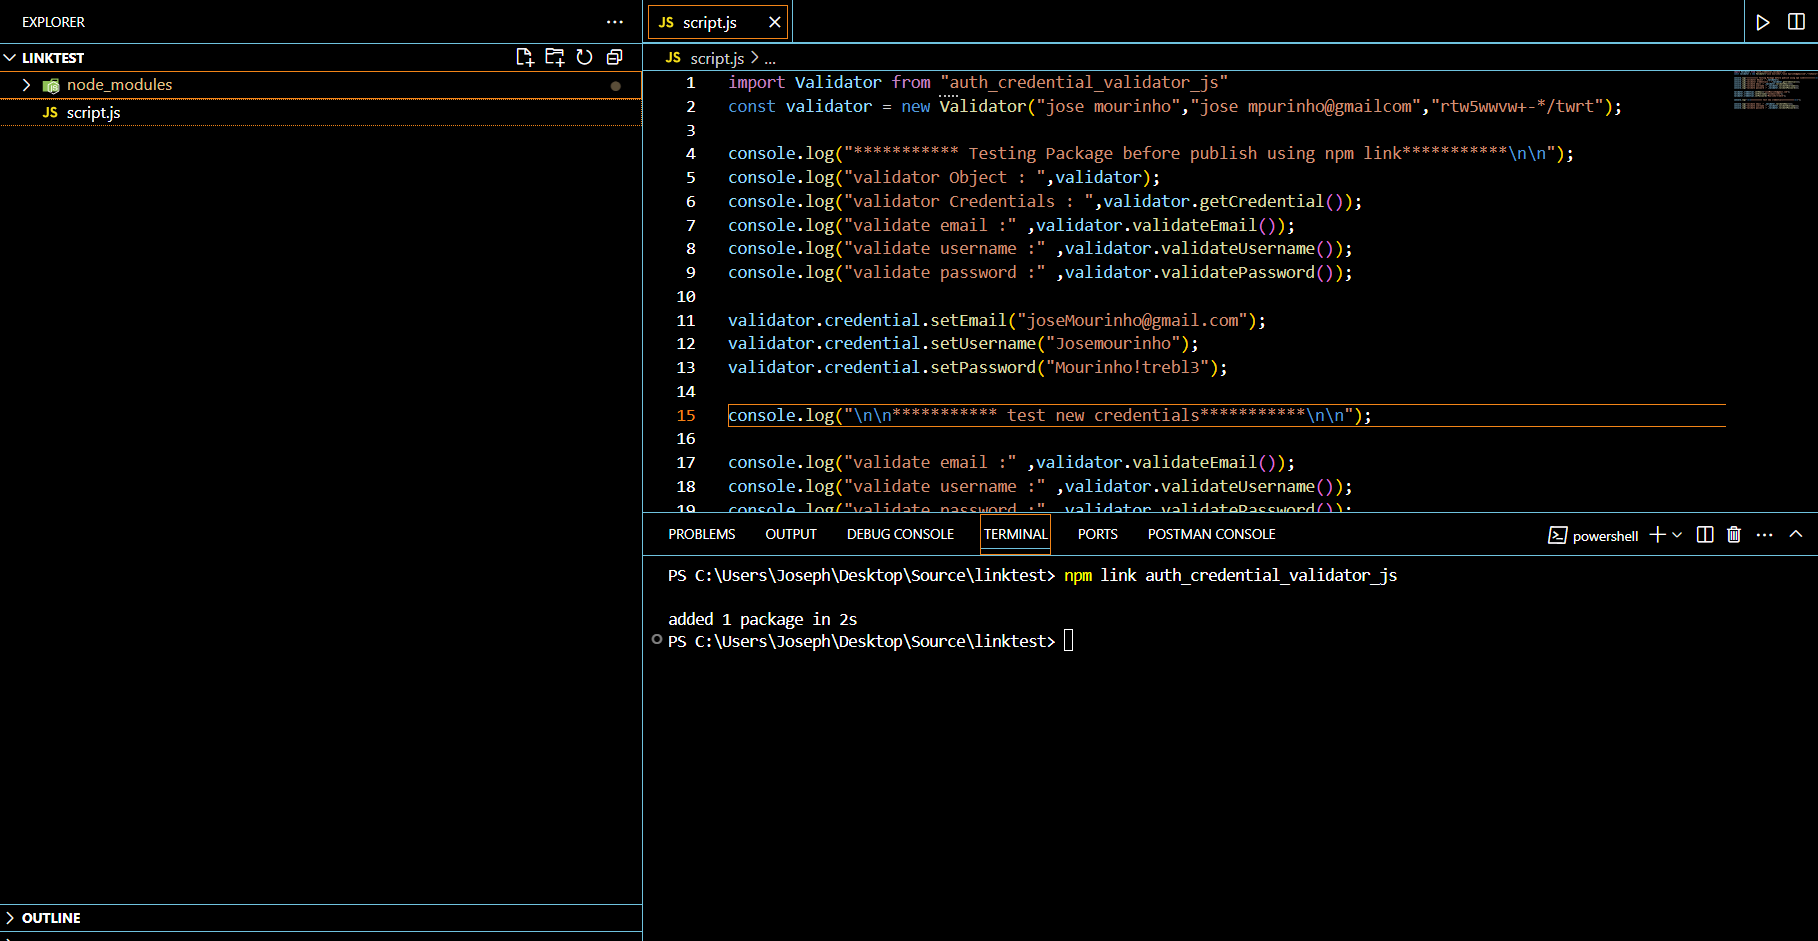
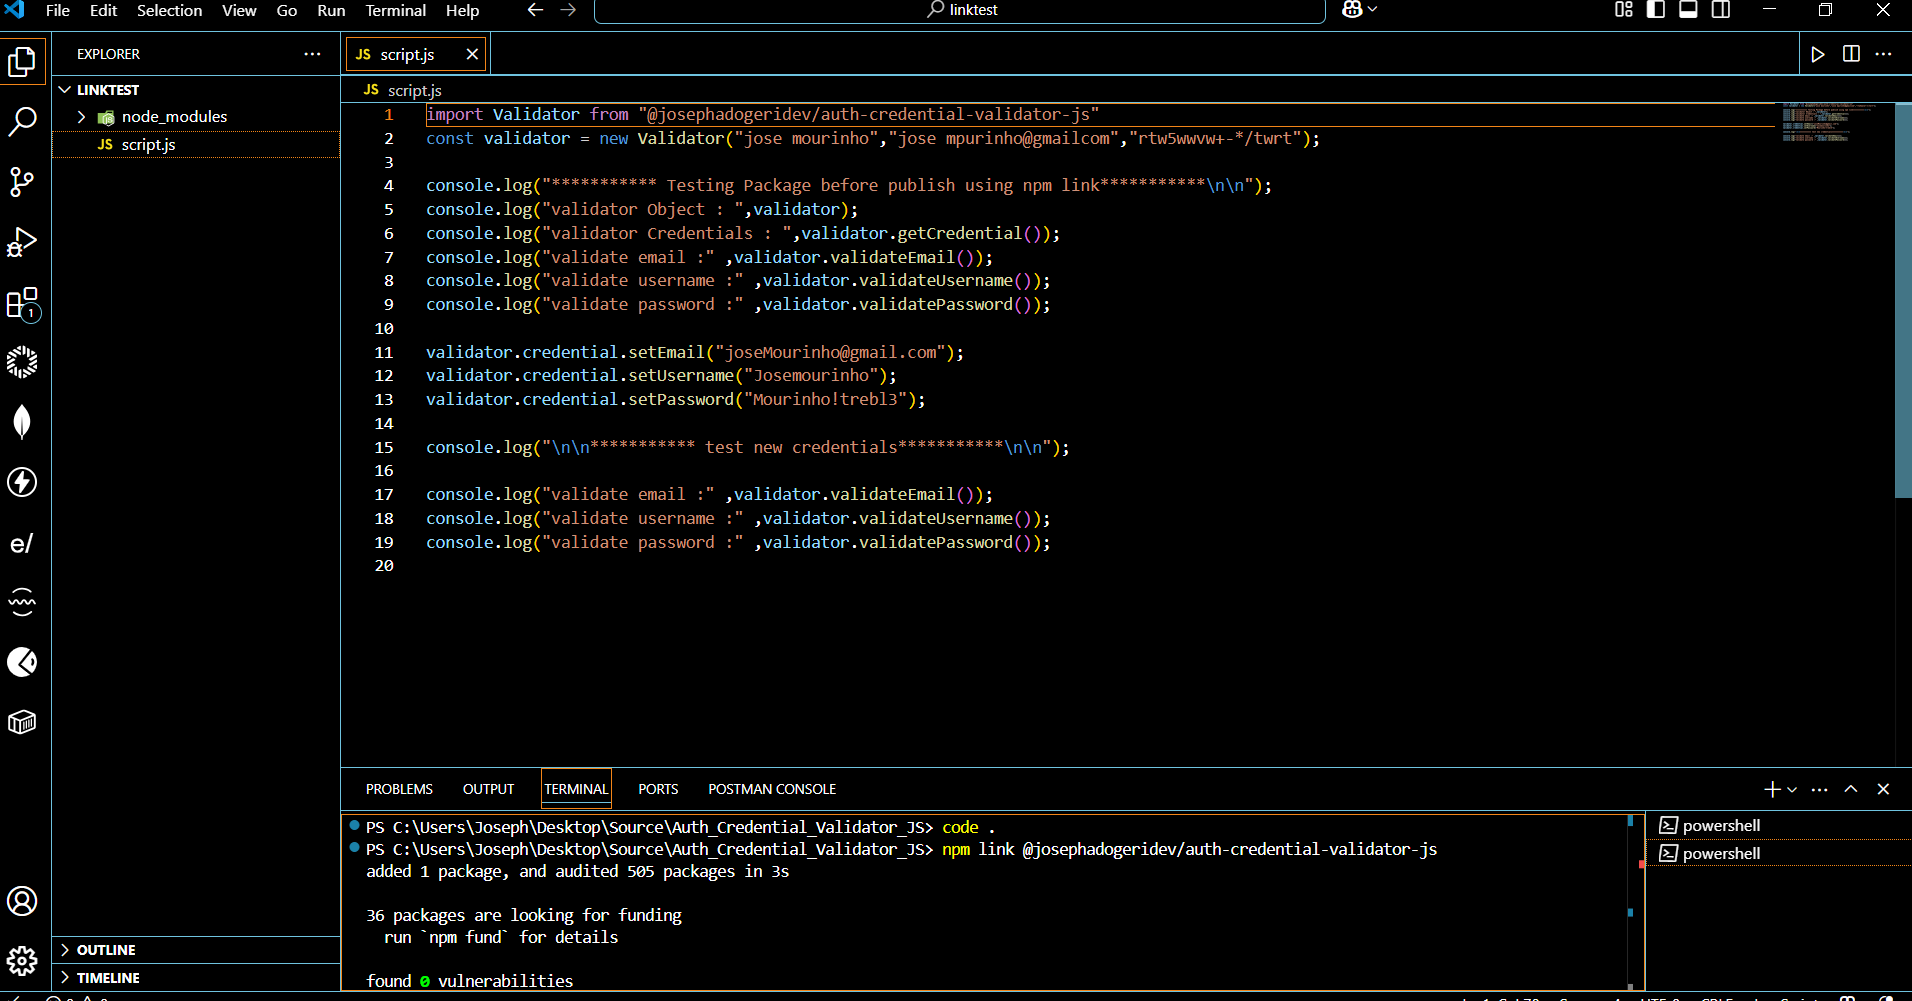
Updaed README.MD

diff --git a/script.js b/script.js
@@ -1,4 +1,4 @@
-import Validator from "auth_credential_validator_js"
+import Validator from "@josephadogeridev/auth-credential-validator-js"
 const validator = new Validator("jose mourinho","jose mpurinho@gmailcom","rtw5wwvw+-*/twrt");
 
 console.log("*********** Testing Package before publish using npm link***********\n\n");

diff --git a/README.MD b/README.MD
@@ -1,4 +1,4 @@
-## **Auth Credential Validator JS**
+# **Auth Credential Validator JS**
 
 **Version:** 1.0.0
 **Date:** June 2, 2025
@@ -125,7 +125,79 @@ This package will allow users to:
 ```bash
   npm install auth-credential-validator-js
 ```
-### 4.2 code snippet ###
+### 4.2 Classes and Methods ###
+
+This project includes the following core components:
+
+#### 4.2.1 `Credential` Class ####
+
+The `Credential` class represents a single credential with its attributes and methods.
+
+*   **Attributes:**
+    *   `username` (string): The username of the credential.
+    *   `email` (string): The email of the credential.
+    *   `password` (string): The password of the credential.
+*   **Methods:**
+    *   `constructor(username ,email ,password)`: The constructor method to initialize a new `Credential` object.
+        *   **Parameters:**
+            *   `username` (string): The username of the credential.
+            *   `email` (string): The email of the credential.
+            *   `password` (string): The password of the credential.
+        *   **Description:** Creates a new `Credential` instance with the provided username, email, and password.
+    *   `getUsername()`: Returns a string containing the credential's username.
+        *   **Description:** Retrieves the username as a readable string.
+    *   `getEmail()`: Returns a string containing the credential's email.
+        *   **Description:** Retrieves the email as a readable string.
+    *   `getPassword()`: Returns a string containing the credential's password.
+        *   **Description:** Retrieves the password as a readable string.
+    *   `setUsername(username)`: Returns a string containing the credential's username.
+        *   **Parameters:**
+            *   `username` (`string` ): The new username of a credential.
+        *   **Description:** updates the username of the credential object.
+    *   `setEmail(email)`: Returns a string containing the credential's email.
+        *   **Parameters:**
+            *   `email` (`string` ): The new email of a credential.
+        *   **Description:** updates the email of the credential object.
+    *   `setPassword(password)`: Returns a string containing the credential's password.
+        *   **Parameters:**
+            *   `password` (`string` ): The new password of a credential.
+        *   **Description:** updates the password of the credential object.
+
+#### 4.2.2 `Validator` Class ####
+
+The `Validator` class represents a single validator with its attributes and methods.
+
+*   **Attributes:**
+    *   `username` (string): The username of the credential.
+    *   `email` (string): The email of the credential.
+    *   `password` (string): The password of the credential.
+*   **Methods:**
+    *   `constructor(username ,email ,password)`: The constructor method to initialize a new `Credential` object.
+        *   **Parameters:**
+            *   `username` (string): The username of the credential.
+            *   `email` (string): The email of the credential.
+            *   `password` (string): The password of the credential.
+        *   **Description:** Creates a new `Credential` instance with the provided username, email, and password.
+    *   `getUsername()`: Returns a string containing the credential's username.
+        *   **Description:** Retrieves the username as a readable string.
+    *   `getEmail()`: Returns a string containing the credential's email.
+        *   **Description:** Retrieves the email as a readable string.
+    *   `getPassword()`: Returns a string containing the credential's password.
+        *   **Description:** Retrieves the password as a readable string.
+    *   `setUsername(username)`: Returns a string containing the credential's username.
+        *   **Parameters:**
+            *   `username` (`string` ): The new username of a credential.
+        *   **Description:** updates the username of the credential object.
+    *   `setEmail(email)`: Returns a string containing the credential's email.
+        *   **Parameters:**
+            *   `email` (`string` ): The new email of a credential.
+        *   **Description:** updates the email of the credential object.
+    *   `setPassword(password)`: Returns a string containing the credential's password.
+        *   **Parameters:**
+            *   `password` (`string` ): The new password of a credential.
+        *   **Description:** updates the password of the credential object.
+
+### 4.3 code snippet ###
 
 ```ruby
 
@@ -156,10 +228,10 @@ console.log("validate password :" ,validator.validatePassword());
 
 #### **5.1 Test from node_modules**
 
-1 navigate to auth-credential-validator-js directory using command below
+1 navigate to cd @josephadogeridev/auth-credential-validator-js directory using command below
 
 ```bash
-  cd node_modeles/auth-credential-validator-js  
+  cd node_modules/@josephadogeridev/auth-credential-validator-js  
 ```
 
 2 type npm run test to run unit tests
@@ -210,4 +282,54 @@ Note : this test was done pre publish to npm manager
 * AweSome Open Source : [Awesome Readme Templates](https://awesomeopensource.com/project/elangosundar/awesome-README-templates)
 * Readme.so : [The easiest way to create a README](https://readme.so/)
 * Mockingoose : [How to test mongoose models with jest and mockingoose](https://dev.to/darkmavis1980/how-to-test-mongoose-models-with-jest-and-mockingoose-2k10)
+
+
+
+# My Awesome Project
+
+## Overview
+
+This project provides a simple Python library for managing a collection of books. It utilizes object-oriented principles to represent books and their associated operations.
+
+## Classes and Methods
+
+This project includes the following core components:
+
+### `Book` Class
+
+The `Book` class represents a single book with its attributes and methods.
+
+*   **Attributes:**
+    *   `title` (string): The title of the book.
+    *   `author` (string): The author of the book.
+    *   `isbn` (string): The ISBN of the book.
+
+*   **Methods:**
+    *   `__init__(self, title, author, isbn)`: The constructor method to initialize a new `Book` object.
+        *   **Parameters:**
+            *   `title` (string): The title of the book.
+            *   `author` (string): The author of the book.
+            *   `isbn` (string): The ISBN of the book.
+        *   **Description:** Creates a new `Book` instance with the provided title, author, and ISBN.
+    *   `get_details(self)`: Returns a formatted string containing the book's details.
+        *   **Description:** Retrieves the title, author, and ISBN and formats them into a readable string.
+
+### `Library` Class
+
+The `Library` class manages a collection of `Book` objects.
+
+*   **Attributes:**
+    *   `books` (list): A list containing `Book` objects.
+
+*   **Methods:**
+    *   `__init__(self)`: The constructor method to initialize a new `Library` object.
+        *   **Description:** Creates an empty list to store books.
+    *   `add_book(self, book)`: Adds a `Book` object to the library.
+        *   **Parameters:**
+            *   `book` (`Book` object): The book to be added to the library.
+        *   **Description:** Appends the provided `Book` object to the internal list of books.
+    *   `list_books(self)`: Prints the details of all books in the library.
+        *   **Description:** Iterates through the list of books and prints the details of each book using the `get_details()` method of the `Book` class.
+
+
 
